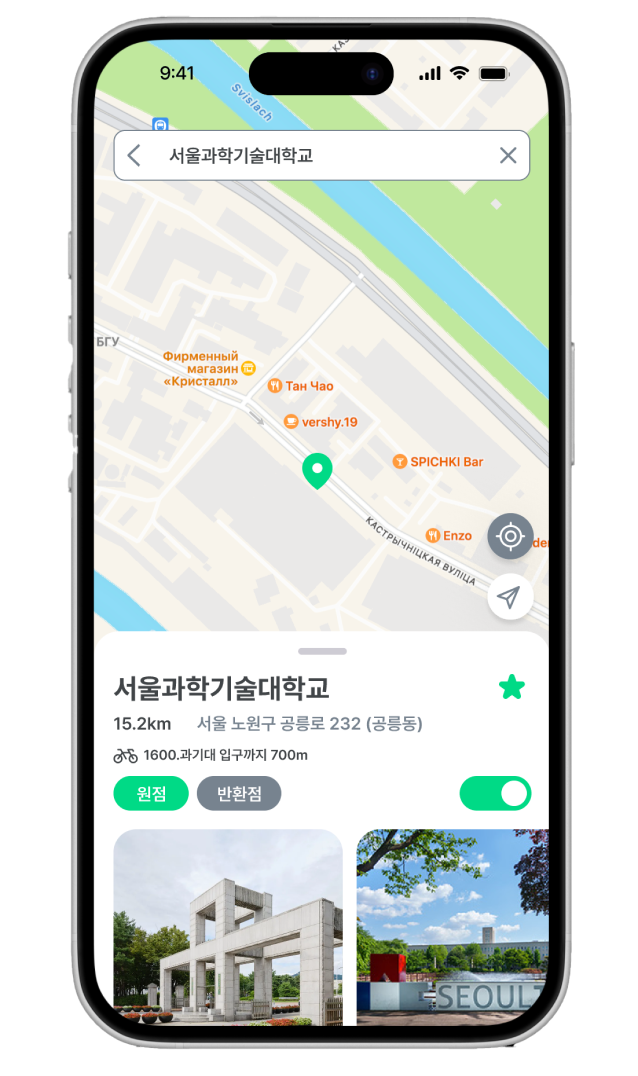
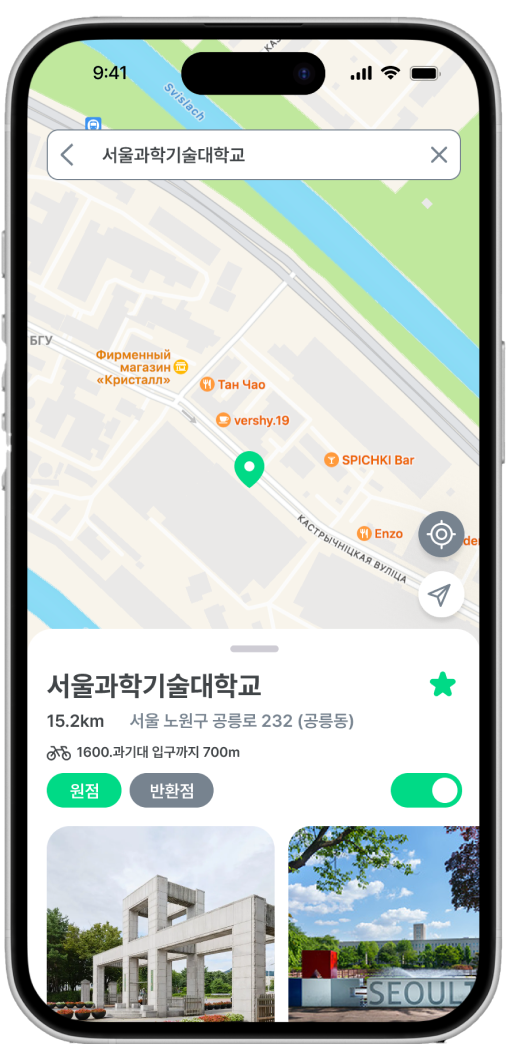
feat: 온보딩 페이지 제작 (#33)

diff --git a/src/features/onboarding/components/OnboardingLayout.tsx b/src/features/onboarding/components/OnboardingLayout.tsx
@@ -1,0 +1,67 @@
+import StepIndicator from '@/shared/components/StepIndicator';
+import { Image, ImageStyle, Text, View } from 'react-native';
+import { SafeAreaView } from 'react-native-safe-area-context';
+import LinearGradient from 'react-native-linear-gradient';
+import { tw } from '@/shared/libs/tw-helper';
+
+interface OnboardingLayoutProps {
+  step: 'step1' | 'step2' | 'step3';
+  text1: string;
+  text2: string;
+  imageSource: any;
+}
+
+const OnboardingLayout = ({
+  step,
+  text1,
+  text2,
+  imageSource,
+}: OnboardingLayoutProps) => {
+  return (
+    <SafeAreaView
+      style={tw('flex-1 bg-surface-primary relative')}
+      edges={['top', 'bottom']}
+    >
+      <LinearGradient
+        colors={['rgba(1,218,134,0)', '#01DA86']}
+        start={{ x: 0, y: 0 }}
+        end={{ x: 0, y: 1 }}
+        style={tw('absolute bottom-0 w-full h-1/3')}
+      />
+
+      <View style={tw('flex-1 px-6')}>
+        <View style={tw('items-center pt-10')}>
+          <StepIndicator step={step} />
+        </View>
+
+        <View style={tw('h-[82px] items-center pt-12')}>
+          <Text
+            style={[
+              tw('font-primary-600 text-[#000] text-center'),
+              { fontSize: 20, lineHeight: 30 },
+            ]}
+          >
+            {text1}
+          </Text>
+          <Text
+            style={[
+              tw('font-primary-700 text-[#000] text-center'),
+              { fontSize: 20, lineHeight: 30 },
+            ]}
+          >
+            {text2}
+          </Text>
+        </View>
+      </View>
+
+      <View style={[tw('absolute w-full items-center'), { bottom: 50 }]}>
+        <Image
+          source={imageSource}
+          style={[tw('w-full'), { height: 522 }] as ImageStyle}
+          resizeMode="contain"
+        />
+      </View>
+    </SafeAreaView>
+  );
+};
+export default OnboardingLayout;

diff --git a/src/app/screens/OnboardingScreen.tsx b/src/app/screens/OnboardingScreen.tsx
@@ -1,12 +1,32 @@
-import React from 'react';
-import { Text, View } from 'react-native';
-import { tw } from '@/shared/libs/tw-helper';
+import React, { useState } from 'react';
+import PagerView from 'react-native-pager-view';
+import OnboardingLayout from '@/features/onboarding/components/OnboardingLayout';
+import { ONBOARDING_DATA } from '@/features/onboarding/model/onboarding.constants';
 
 const OnboardingScreen = () => {
+  const [onBoardingStep, setOnBoardingStep] = useState<
+    'step1' | 'step2' | 'step3'
+  >('step1');
+
   return (
-    <View style={tw('flex-1 items-center justify-center bg-zinc-900')}>
-      <Text style={tw('text-yellow-400 text-2xl font-bold')}>Navigation</Text>
-    </View>
+    <PagerView
+      style={{ flex: 1 }}
+      initialPage={0}
+      onPageSelected={(event) => {
+        const { position } = event.nativeEvent;
+        setOnBoardingStep(`step${position + 1}` as 'step1' | 'step2' | 'step3');
+      }}
+    >
+      {ONBOARDING_DATA.map((item) => (
+        <OnboardingLayout
+          key={item.step}
+          step={item.step as 'step1' | 'step2' | 'step3'}
+          text1={item.text1}
+          text2={item.text2}
+          imageSource={item.imageSource}
+        />
+      ))}
+    </PagerView>
   );
 };
 

diff --git a/src/features/onboarding/model/onboarding.constants.ts b/src/features/onboarding/model/onboarding.constants.ts
@@ -1,0 +1,20 @@
+export const ONBOARDING_DATA = [
+  {
+    step: 'step1',
+    text1: '출발부터 도착까지 모든 경로를',
+    text2: '따릉이맵과 함께 탐색해요.',
+    imageSource: require('@/assets/imgs/onboarding1.png'),
+  },
+  {
+    step: 'step2',
+    text1: '루프형 경로 기능으로\n원점과 반환점을 설정해서',
+    text2: '돌아올 수 있어요.',
+    imageSource: require('@/assets/imgs/onboarding2.png'),
+  },
+  {
+    step: 'step3',
+    text1: '얼마나 따릉이를 이용하고,\n탄소 발자국을 절감했는지',
+    text2: '알아볼 수 있어요.',
+    imageSource: require('@/assets/imgs/onboarding3.png'),
+  },
+];
